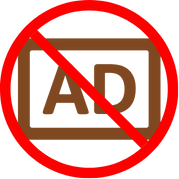
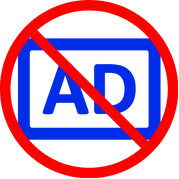
Corrigido o cabeçalho, adicionado o carrossel com placeholders e inicio da seção de selecione seu plano

diff --git a/css/main.css b/css/main.css
@@ -1,7 +1,8 @@
 :root {
-    --default-font: "Roboto", system-ui, -apple-system, "Segoe UI", Roboto, "Helvetica Neue", Arial, "Noto Sans", "Liberation Sans", sans-serif, "Apple Color Emoji", "Segoe UI Emoji", "Segoe UI Symbol", "Noto Color Emoji";
+    --default-font: "Martel Sans", sans-serif;
     --heading-font: 10px "Amatic SC", sans-serif;
     --nav-font: "Inter", sans-serif;
+    --default-color: #002be7;
 }
 
 body,
@@ -10,54 +11,154 @@ html {
     padding: 0;
     width: 100%;
     height: 100%;
+    overflow-x: hidden;
 }
 
 header {
     display: flex;
-    /* Use flexbox for the header */
-    /* Align items to the right */
     align-items: center;
+    justify-content: space-between;
     padding: 10px 20px;
-    background-color: #f8f9fa;
+    background-color: #D9D9D9;
     box-shadow: 0 2px 4px rgba(0, 0, 0, 0.1);
+    height: 10%;
+}
+
+.colored-text {
+    color: var(--default-color);
 }
 
 .img_logo_watchyouwant {
-    justify-content: flex-start;
     display: inline-block;
     vertical-align: middle;
-    height: 45px;
-    width: 200px;
+    height: auto;
+    width: 40%;
     margin-right: 20px;
-    /* Add margin-right for spacing */
+}
+
+.botoes_header {
+    display: flex;
+    gap: 10px;
 }
 
 .botao_assinar,
 .botao_acessar {
-    justify-content: flex-end;
     font: var(--heading-font);
     display: inline-flex;
     align-items: center;
     justify-content: center;
     padding: 10px 20px;
     font-size: 20px;
+    border-radius: 10px;
     border: none;
     text-decoration: none;
     cursor: pointer;
     transition: background-color 0.3s ease;
-    margin-right: 0;
 }
 
 .botao_acessar {
     background-color: transparent;
-    color: #804820;
+    color: var(--default-color);
 }
 
 .botao_assinar {
-    background-color: #804820;
+    background-color: var(--default-color);
     color: white;
 }
 
 .botao_assinar:hover {
     background-color: #976c4e;
+}
+
+.sessao-slogan-inicial-watchyouwant {
+    margin-top: 2%;
+    margin-bottom: 2%;
+}
+
+.sessao-titulo-slogan-inicial-watchyouwant {
+    font-size: 50px;
+    font-family: var(--default-font);
+    text-shadow: 5px 5px 7px lightgrey;
+    text-align: center;
+}
+
+.sessao-subtitulo-slogan-inicial-watchyouwant {
+    font-size: 35px;
+    font-family: var(--default-font);
+    text-shadow: 5px 5px 7px lightgrey;
+    text-align: center;
+}
+
+.carousel {
+    position: relative;
+    width: 100%;
+    height: 600px;
+    overflow: hidden;
+    box-shadow: 0 4px 8px rgba(0, 0, 0, 0.2);
+}
+
+.carousel-inner {
+    display: flex;
+    transition: transform 0.5s ease-in-out;
+}
+
+.carousel-item {
+    min-width: 100%;
+    box-sizing: border-box;
+}
+
+.carousel-item img {
+    width: 100%;
+    height: 100%;
+    display: block;
+}
+
+.carousel-control {
+    position: absolute;
+    top: 50%;
+    transform: translateY(-50%);
+    background-color: rgba(0, 0, 0, 0.5);
+    border: none;
+    color: white;
+    font-size: 2rem;
+    padding: 0.5rem;
+    cursor: pointer;
+    z-index: 1000;
+}
+
+.carousel-control.prev {
+    left: 10px;
+}
+
+.carousel-control.next {
+    right: 10px;
+}
+
+.sessao-selecionar-plano {
+    margin-top: 2%;
+}
+
+.titulo-sessao-selecionar-plano {
+    display: flex;
+    align-items: center;
+    text-align: center;
+    font-size: 35px;
+    position: relative;
+    font-family: var(--default-font);
+}
+
+.titulo-sessao-selecionar-plano::before,
+.titulo-sessao-selecionar-plano::after {
+    content: "";
+    flex: 1;
+    border-bottom: 4px solid var(--default-color);
+    margin: 0 50rem;
+}
+
+.titulo-sessao-selecionar-plano::before {
+    margin-right: 1rem;
+}
+
+.titulo-sessao-selecionar-plano::after {
+    margin-left: 1rem;
 }

diff --git a/index.html b/index.html
@@ -22,19 +22,56 @@
     <script src="https://code.jquery.com/jquery-3.5.1.slim.min.js"></script>
     <script src="https://cdn.jsdelivr.net/npm/@popperjs/core@2.9.3/dist/umd/popper.min.js"></script>
     <script src="https://stackpath.bootstrapcdn.com/bootstrap/4.5.2/js/bootstrap.min.js"></script>
+    <script src="js/carousel.js"></script>
+
 </head>
 
 <body class="index-page">
     <header id="header" class="header_watchyouwant">
-        <a href="index.html" class="logo_watchyouwant">
-            <img class="img_logo_watchyouwant" src="img/LogoProjetoStreaming.png" alt="Home">
-        </a>
-        <div class="espaco_entre_botoes_header">
-
+        <div class="logo_header">
+            <a href="index.html" class="logo_watchyouwant">
+                <img class="img_logo_watchyouwant" src="img/LogoProjetoStreaming.png" alt="Home">
+            </a>
         </div>
-        <a href="login.html" class="botao_acessar">Entrar</a>
-        <a href="signup.html" class="botao_assinar">Assine</a>
+        <div class="botoes_header">
+            <a href="login.html" class="botao_acessar">Entrar</a>
+            <a href="signup.html" class="botao_assinar">Assine</a>
+        </div>
     </header>
+    <div class="sessao-slogan-inicial-watchyouwant">
+        <div class="sessao-titulo-slogan-inicial-watchyouwant">
+            <span>Do </span>
+            <span class="colored-text">sucesso</span>
+            <span>das telonas, para </span>
+            <span class="colored-text">sua</span>
+            <span> TV!</span>
+        </div>
+        <div class="sessao-subtitulo-slogan-inicial-watchyouwant">
+            <span>A apenas</span>
+            <span class="colored-text">um</span>
+            <span>clique de distância.</span>
+        </div>
+    </div>
+    <div class="carousel">
+        <div class="carousel-inner">
+            <div class="carousel-item active">
+                <img src="img/banner1.png" alt="Image 1">
+            </div>
+            <div class="carousel-item">
+                <img src="img/banner2.png" alt="Image 2">
+            </div>
+            <div class="carousel-item">
+                <img src="img/banner3.png" alt="Image 3">
+            </div>
+        </div>
+        <button class="carousel-control prev" onclick="prevSlide()">&#10094;</button>
+        <button class="carousel-control next" onclick="nextSlide()">&#10095;</button>
+    </div>
+    <div class="sessao-selecionar-plano">
+        <h2 class="titulo-sessao-selecionar-plano">
+            Selecione seu plano
+        </h2>
+    </div>
 </body>
 
 </html>

diff --git a/js/carousel.js b/js/carousel.js
@@ -1,0 +1,27 @@
+let currentIndex = 0;
+
+function showSlide(index) {
+    const slides = document.querySelectorAll('.carousel-item');
+    if (index >= slides.length) {
+        currentIndex = 0;
+    } else if (index < 0) {
+        currentIndex = slides.length - 1;
+    } else {
+        currentIndex = index;
+    }
+    const offset = -currentIndex * 100;
+    document.querySelector('.carousel-inner').style.transform = `translateX(${offset}%)`;
+}
+
+function nextSlide() {
+    showSlide(currentIndex + 1);
+}
+
+function prevSlide() {
+    showSlide(currentIndex - 1);
+}
+
+// Optional: Auto play the carousel every 3 seconds
+setInterval(() => {
+    nextSlide();
+}, 7000);
